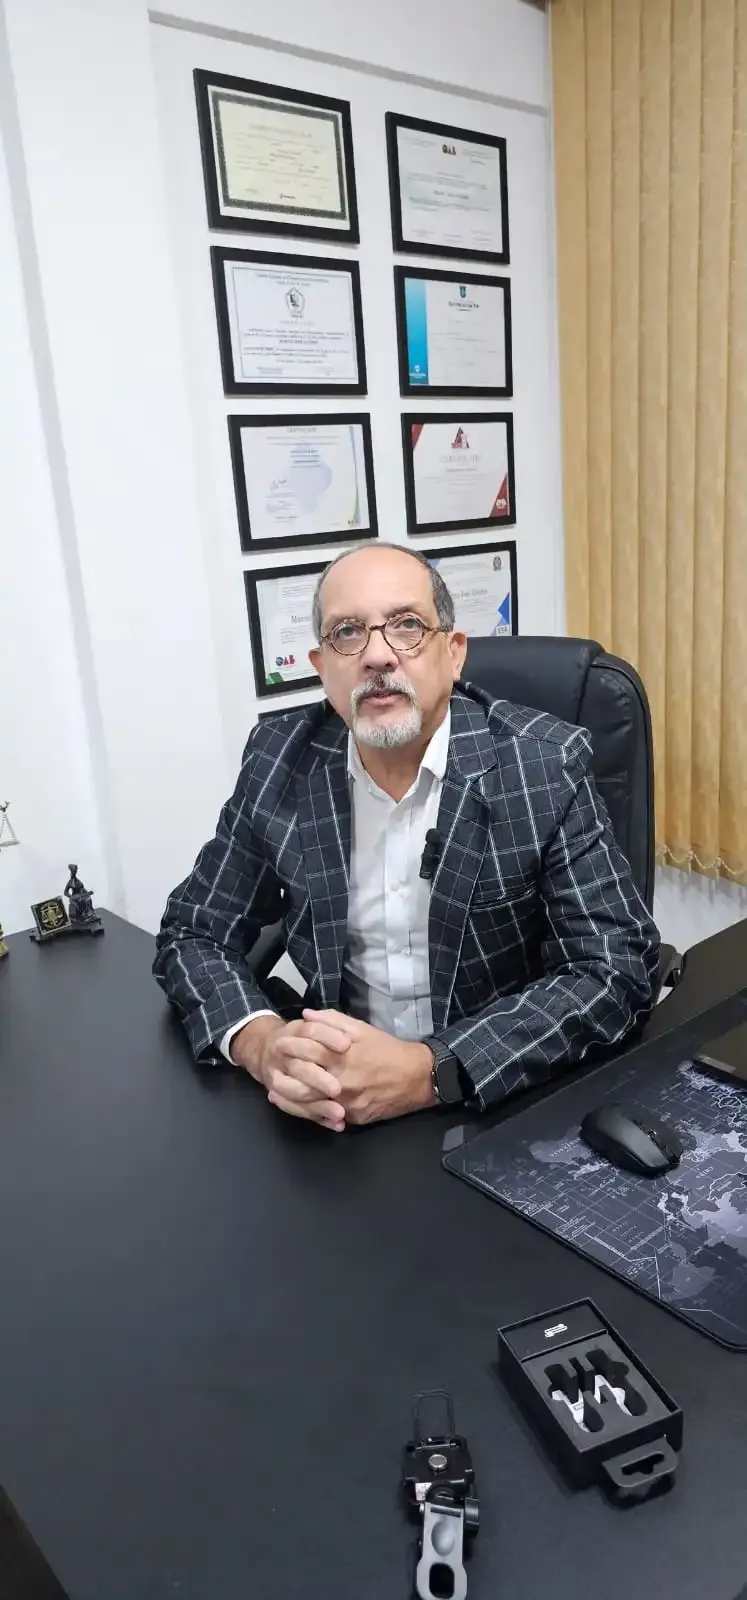
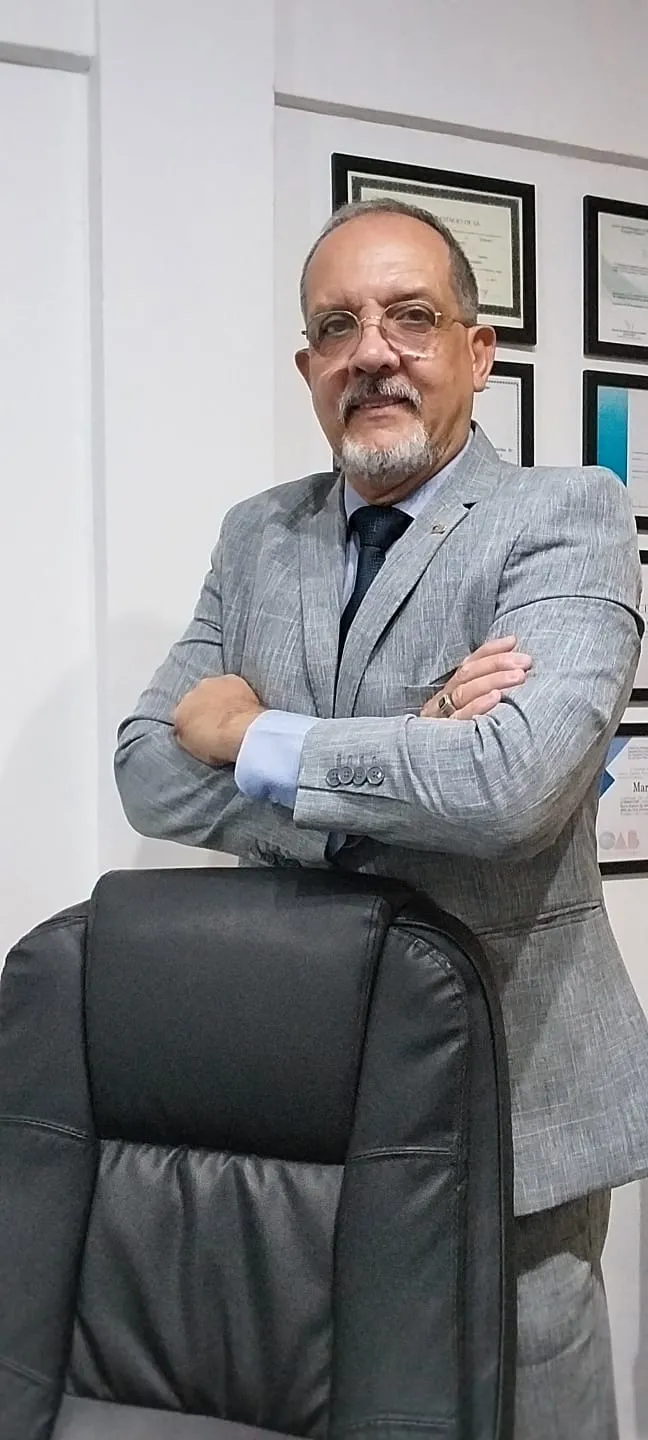
feat: add interactive image gallery and update site assets for optimized performance

diff --git a/index.html b/index.html
@@ -21,7 +21,9 @@
     content="Atendimento jurídico em diversas áreas do Direito. Escritório em Campo Grande, Rio de Janeiro.">
   <meta property="og:type" content="website">
   <meta property="og:url" content="https://www.aeaadvocacia.ag5agencia.site">
-  <meta property="og:image" content="https://www.aeaadvocacia.ag5agencia.site/og-image.jpg">
+  <meta property="og:image" content="https://www.aeaadvocacia.ag5agencia.site/Fotos/hero-advogado.webp">
+  <meta property="og:image:width" content="800">
+  <meta property="og:image:height" content="1000">
   <meta property="og:locale" content="pt_BR">
   <meta property="og:site_name" content="A&A Advocacia Especializada">
 
@@ -30,13 +32,11 @@
   <meta name="twitter:title" content="A&A Advocacia Especializada | Zona Oeste - RJ">
   <meta name="twitter:description"
     content="Escritório jurídico especializado em diversas áreas do Direito em Campo Grande.">
-  <meta name="twitter:image" content="https://www.aeaadvocacia.ag5agencia.site/twitter-card.jpg">
+  <meta name="twitter:image" content="https://www.aeaadvocacia.ag5agencia.site/Fotos/hero-advogado.webp">
 
   <!-- Favicon - otimizado -->
-  <link rel="icon" type="image/png" sizes="32x32"
-    href="https://storage.googleapis.com/msgsndr/7hzaWcGgawCV1WudlwA7/media/698e3aca18c51734d7cb0fdd.webp">
-  <link rel="apple-touch-icon" sizes="180x180"
-    href="https://storage.googleapis.com/msgsndr/7hzaWcGgawCV1WudlwA7/media/698e3aca18c51734d7cb0fdd.webp">
+  <link rel="icon" type="image/webp" sizes="32x32" href="Fotos/logo-aa.webp">
+  <link rel="apple-touch-icon" sizes="180x180" href="Fotos/logo-aa.webp">
 
   <!-- Theme color para navegadores mobile -->
   <meta name="theme-color" content="#0d2d38">
@@ -46,9 +46,7 @@
   <link rel="preconnect" href="https://fonts.gstatic.com" crossorigin>
 
   <!-- Preload da imagem hero (LCP) -->
-  <link rel="preload"
-    href="https://storage.googleapis.com/msgsndr/7hzaWcGgawCV1WudlwA7/media/698e3aca18c517ed8acb0fdc.webp" as="image"
-    fetchpriority="high">
+  <link rel="preload" href="Fotos/hero-advogado.webp" as="image" fetchpriority="high">
 
   <!-- Fonts otimizadas - carregamento assíncrono para não bloquear renderização -->
   <link rel="stylesheet"
@@ -92,8 +90,8 @@
       "name": "A&A Advocacia Especializada em Direito | Trânsito | Trabalho | Família | Previdenciário",
       "alternateName": "A&A Advocacia Especializada",
         "url": "https://www.aeaadvocacia.ag5agencia.site/",
-        "logo": "https://storage.googleapis.com/msgsndr/7hzaWcGgawCV1WudlwA7/media/698e3aca18c51734d7cb0fdd.webp",
-        "image": "https://storage.googleapis.com/msgsndr/7hzaWcGgawCV1WudlwA7/media/698e3aca18c517ed8acb0fdc.webp",
+        "logo": "https://www.aeaadvocacia.ag5agencia.site/Fotos/logo-aa.webp",
+        "image": "https://www.aeaadvocacia.ag5agencia.site/Fotos/hero-advogado.webp",
         "description": "Escritório de advocacia em Campo Grande, RJ. Especialistas em Direito de Trânsito, Trabalho e Família.",
         "telephone": "+55-21-96995-8970",
         "email": "contato@aaadvocacia.com.br",
@@ -309,10 +307,8 @@
   <header class="header" id="home">
     <div class="container header-inner">
       <a href="#home" class="header-logo" aria-label="Ir para o topo da página">
-        <img src="https://storage.googleapis.com/msgsndr/7hzaWcGgawCV1WudlwA7/media/698e3aca18c51734d7cb0fdd.webp"
-          alt="A&A Advocacia" width="50" height="50"
-          srcset="https://storage.googleapis.com/msgsndr/7hzaWcGgawCV1WudlwA7/media/698e3aca18c51734d7cb0fdd.webp 893w"
-          sizes="50px" loading="eager" fetchpriority="high">
+        <img src="Fotos/logo-aa.webp" alt="A&A Advocacia" width="50" height="50" loading="eager"
+          fetchpriority="high">
       </a>
 
       <nav class="nav-desktop hide-mobile" aria-label="Navegação principal">
@@ -349,8 +345,7 @@
     <div class="mobile-menu" id="mobile-menu" aria-label="Menu mobile" aria-hidden="true" inert>
       <div class="mobile-menu-header">
         <div class="header-logo">
-          <img src="https://storage.googleapis.com/msgsndr/7hzaWcGgawCV1WudlwA7/media/698e3aca18c51734d7cb0fdd.webp"
-            alt="A&A Advocacia" width="40" height="40" loading="eager">
+          <img src="Fotos/logo-aa.webp" alt="A&A Advocacia" width="40" height="40" loading="eager">
         </div>
       </div>
       <nav class="mobile-menu-nav" aria-label="Navegação mobile">
@@ -404,17 +399,17 @@
 
           <!-- Imagem Mobile: aparece abaixo do botão apenas no mobile -->
           <div class="hero-image-mobile">
-            <img src="https://storage.googleapis.com/msgsndr/7hzaWcGgawCV1WudlwA7/media/698e3aca18c517ed8acb0fdc.webp"
-              alt="Advogado especialista da A&A Advocacia" class="hero-image-mobile-img" width="800" height="1000"
-              loading="eager" fetchpriority="high" decoding="async">
+            <img src="Fotos/hero-advogado.webp"
+              alt="Dr. Marcio José Alcides - Advogado da A&A Advocacia Especializada" class="hero-image-mobile-img"
+              width="800" height="1000" loading="eager" fetchpriority="high" decoding="async">
           </div>
         </div>
 
         <!-- Imagem Hero Desktop -->
         <div class="hero-image-wrapper reveal-right">
-          <img src="https://storage.googleapis.com/msgsndr/7hzaWcGgawCV1WudlwA7/media/698e3aca18c517ed8acb0fdc.webp"
-            alt="Advogado especialista da A&A Advocacia" class="hero-image" width="800" height="1000" loading="eager"
-            fetchpriority="high" decoding="async">
+          <img src="Fotos/hero-advogado.webp"
+            alt="Dr. Marcio José Alcides - Advogado da A&A Advocacia Especializada" class="hero-image" width="800"
+            height="1000" loading="eager" fetchpriority="high" decoding="async">
         </div>
       </div>
 
@@ -622,12 +617,33 @@
     <!-- ========== SOBRE PREMIUM ========== -->
     <section class="section sobre" id="sobre">
       <div class="container sobre-grid">
-        <!-- Lado Esquerdo: Imagem -->
+        <!-- Lado Esquerdo: Imagem + Galeria de Thumbs -->
         <div class="sobre-image-wrapper reveal-left">
           <div class="sobre-image-frame" aria-hidden="true"></div>
-          <img src="https://storage.googleapis.com/msgsndr/7hzaWcGgawCV1WudlwA7/media/698e3acaa44964f935ae76c1.webp"
-            alt="Advogado da A&A Advocacia em ambiente profissional" class="sobre-image" loading="lazy" width="550"
-            height="700" decoding="async">
+          <img src="Fotos/advogado-retrato-01.webp" id="sobre-image-main"
+            alt="Dr. Marcio José Alcides - advogado titular da A&A Advocacia"
+            class="sobre-image" loading="lazy" width="550" height="700" decoding="async">
+
+          <div class="sobre-thumbs" role="tablist" aria-label="Galeria do advogado">
+            <button type="button" class="sobre-thumb is-active" role="tab" aria-selected="true"
+              data-src="Fotos/advogado-retrato-01.webp"
+              data-alt="Dr. Marcio José Alcides em terno cinza com pin da OAB"
+              data-position="center 45%" aria-label="Foto: retrato com pin da OAB">
+              <img src="Fotos/advogado-retrato-01.webp" alt="" loading="lazy" decoding="async" aria-hidden="true">
+            </button>
+            <button type="button" class="sobre-thumb" role="tab" aria-selected="false"
+              data-src="Fotos/advogado-retrato-02.webp"
+              data-alt="Dr. Marcio José Alcides em postura reflexiva no escritório"
+              data-position="center 40%" aria-label="Foto: postura reflexiva">
+              <img src="Fotos/advogado-retrato-02.webp" alt="" loading="lazy" decoding="async" aria-hidden="true">
+            </button>
+            <button type="button" class="sobre-thumb" role="tab" aria-selected="false"
+              data-src="Fotos/advogado-retrato-03.webp"
+              data-alt="Dr. Marcio José Alcides apoiado na cadeira do escritório"
+              data-position="center 35%" aria-label="Foto: apoiado na cadeira">
+              <img src="Fotos/advogado-retrato-03.webp" alt="" loading="lazy" decoding="async" aria-hidden="true">
+            </button>
+          </div>
         </div>
 
         <!-- Lado Direito: Conteúdo -->
@@ -644,6 +660,10 @@
               clientes
               em toda a região, incluindo Santa Cruz, Barra da Tijuca e Recreio, com estrutura moderna e atendimento
               humanizado.</p>
+            <p>À frente do escritório está o <strong>Dr. Marcio José Alcides</strong>, advogado inscrito na OAB e
+              titular da A&A Advocacia Especializada. Com formação acadêmica sólida e múltiplas certificações
+              profissionais, conduz pessoalmente cada caso, oferecendo orientação técnica clara e estratégia jurídica
+              personalizada para cada cliente.</p>
             <p>Com experiência consolidada em Direito de Trânsito, Trabalhista, Família, Responsabilidade Civil,
               Criminal
               e Previdenciário, oferecemos consultoria preventiva e atuação contenciosa sempre pautadas pela ética
@@ -914,8 +934,7 @@
       <!-- Coluna 1: Marca -->
       <div class="footer-brand">
         <div class="footer-logo">
-          <img src="https://storage.googleapis.com/msgsndr/7hzaWcGgawCV1WudlwA7/media/698e3aca18c51734d7cb0fdd.webp"
-            alt="A&A Advocacia" width="50" height="50" loading="lazy" decoding="async">
+          <img src="Fotos/logo-aa.webp" alt="A&A Advocacia" width="50" height="50" loading="lazy" decoding="async">
           <span class="footer-logo-text">A&A Advocacia</span>
         </div>
         <p>Escritório de advocacia especializada em soluções jurídicas na Zona Oeste do Rio de Janeiro. Atuação

diff --git a/style.css b/style.css
@@ -452,7 +452,8 @@ address {
     margin-top: 20px;
     border-radius: 12px;
     overflow: hidden;
-    height: 260px;
+    aspect-ratio: 3 / 4;
+    max-height: 480px;
     border: 2px solid rgba(201, 169, 98, 0.3);
     box-shadow: 0 8px 32px rgba(0, 0, 0, 0.4);
   }
@@ -461,7 +462,7 @@ address {
     width: 100%;
     height: 100%;
     object-fit: cover;
-    object-position: center 45%;
+    object-position: center 18%;
     filter: grayscale(0.2) contrast(1.05) brightness(0.85);
   }
 
@@ -471,15 +472,14 @@ address {
   }
 
   /* Sobre image smaller on mobile */
-  .sobre-image-wrapper {
-    max-height: 300px;
-    overflow: hidden;
+  .sobre-image {
+    height: 360px;
+    object-position: center 40%;
   }
 
-  .sobre-image {
-    max-height: 300px;
-    object-fit: cover;
-    object-position: center 30%;
+  .sobre-thumbs {
+    gap: 8px;
+    margin-top: 12px;
   }
 }
 
@@ -931,7 +931,7 @@ address {
   width: 100%;
   height: 100%;
   object-fit: cover;
-  object-position: center 20%;
+  object-position: center top;
   filter: grayscale(0.3) contrast(1.1) brightness(0.5);
   mask-image: linear-gradient(to right, transparent 0%, black 40%);
   -webkit-mask-image: linear-gradient(to right, transparent 0%, black 40%);
@@ -1134,8 +1134,72 @@ address {
   position: relative;
   z-index: 1;
   width: 100%;
+  height: 480px;
+  object-fit: cover;
+  object-position: center 45%;
   border-radius: var(--radius-lg);
   box-shadow: var(--shadow-xl);
+  transition: opacity 0.25s ease;
+}
+
+/* Galeria de thumbs abaixo da imagem principal */
+.sobre-thumbs {
+  position: relative;
+  z-index: 2;
+  display: grid;
+  grid-template-columns: repeat(3, 1fr);
+  gap: 14px;
+  margin-top: 16px;
+}
+
+.sobre-thumb {
+  position: relative;
+  padding: 0;
+  border: 2px solid transparent;
+  border-radius: 10px;
+  background: var(--color-bg-section);
+  overflow: hidden;
+  aspect-ratio: 3 / 4;
+  cursor: pointer;
+  transition: all var(--transition-fast);
+}
+
+.sobre-thumb img {
+  width: 100%;
+  height: 100%;
+  object-fit: cover;
+  object-position: center 18%;
+  transition: transform 0.4s ease;
+}
+
+/* Ponto focal por foto (% vertical onde o rosto fica visível) */
+.sobre-thumb:nth-child(1) img {
+  object-position: center 18%;
+}
+.sobre-thumb:nth-child(2) img {
+  object-position: center 12%;
+}
+.sobre-thumb:nth-child(3) img {
+  object-position: center 15%;
+}
+
+.sobre-thumb:hover {
+  border-color: rgba(201, 169, 98, 0.45);
+  transform: translateY(-2px);
+}
+
+.sobre-thumb:hover img {
+  transform: scale(1.06);
+}
+
+.sobre-thumb.is-active {
+  border-color: var(--color-gold);
+  box-shadow: 0 0 0 1px var(--color-gold), 0 6px 16px rgba(201, 169, 98, 0.25);
+}
+
+.sobre-thumb:focus-visible {
+  outline: 2px solid var(--color-gold);
+  outline-offset: 2px;
 }
 
 .sobre-content {
@@ -1728,7 +1792,8 @@ address {
   .hero-image-wrapper {
     position: relative;
     width: 100%;
-    height: 600px;
+    aspect-ratio: 3 / 4;
+    max-height: 720px;
     border-radius: var(--radius-lg);
     overflow: hidden;
   }
@@ -1736,7 +1801,8 @@ address {
   .hero-image {
     mask-image: none;
     -webkit-mask-image: none;
-    filter: grayscale(0.2) contrast(1.05) brightness(0.8);
+    object-position: center 5%;
+    filter: grayscale(0.2) contrast(1.05) brightness(0.85);
   }
 
   .sobre-grid {

diff --git a/script.js b/script.js
@@ -460,3 +460,34 @@ function debounce(func, wait) {
         timeout = setTimeout(later, wait);
     };
 }
+
+// ========== Galeria Sobre: troca de imagem principal ==========
+(function () {
+    const mainImg = document.getElementById('sobre-image-main');
+    const thumbs = document.querySelectorAll('.sobre-thumb');
+    if (!mainImg || !thumbs.length) return;
+
+    thumbs.forEach((thumb) => {
+        thumb.addEventListener('click', () => {
+            const src = thumb.dataset.src;
+            const alt = thumb.dataset.alt || '';
+            const position = thumb.dataset.position || 'center 30%';
+            if (!src || mainImg.src.endsWith(src)) return;
+
+            mainImg.style.opacity = '0';
+            setTimeout(() => {
+                mainImg.src = src;
+                mainImg.alt = alt;
+                mainImg.style.objectPosition = position;
+                mainImg.style.opacity = '1';
+            }, 180);
+
+            thumbs.forEach((t) => {
+                t.classList.remove('is-active');
+                t.setAttribute('aria-selected', 'false');
+            });
+            thumb.classList.add('is-active');
+            thumb.setAttribute('aria-selected', 'true');
+        });
+    });
+})();
